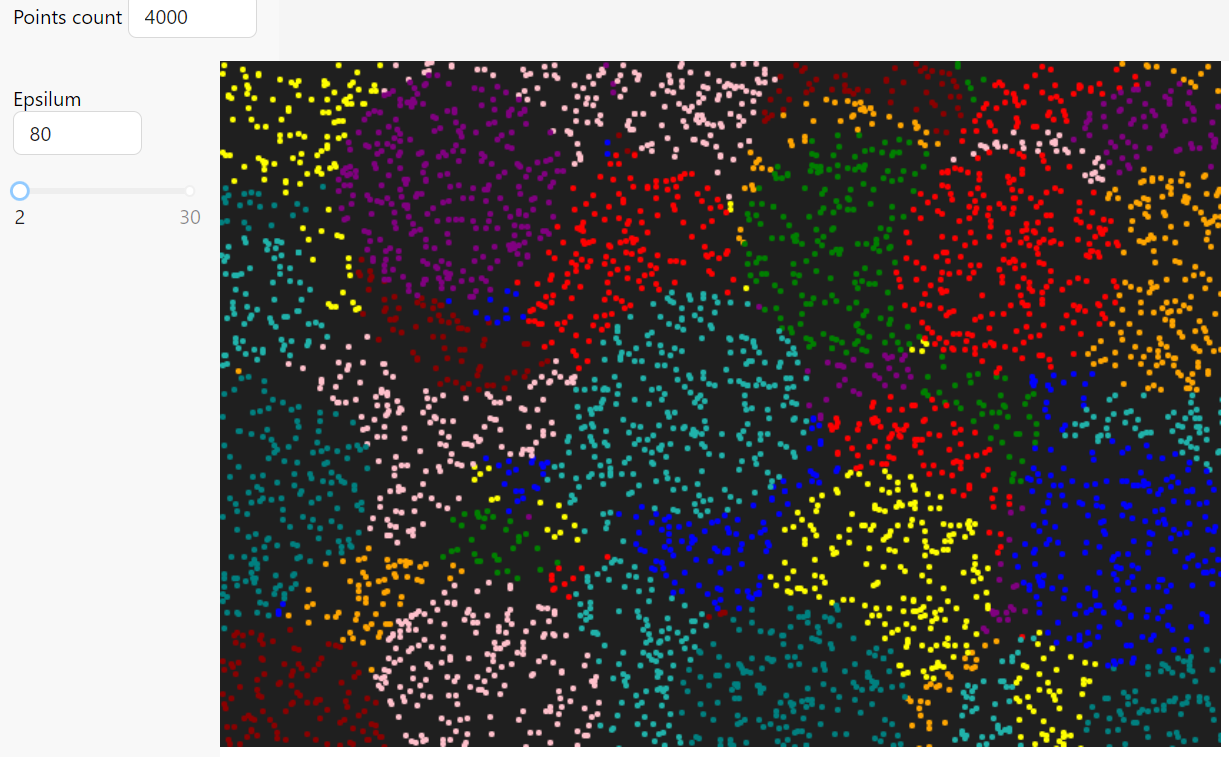
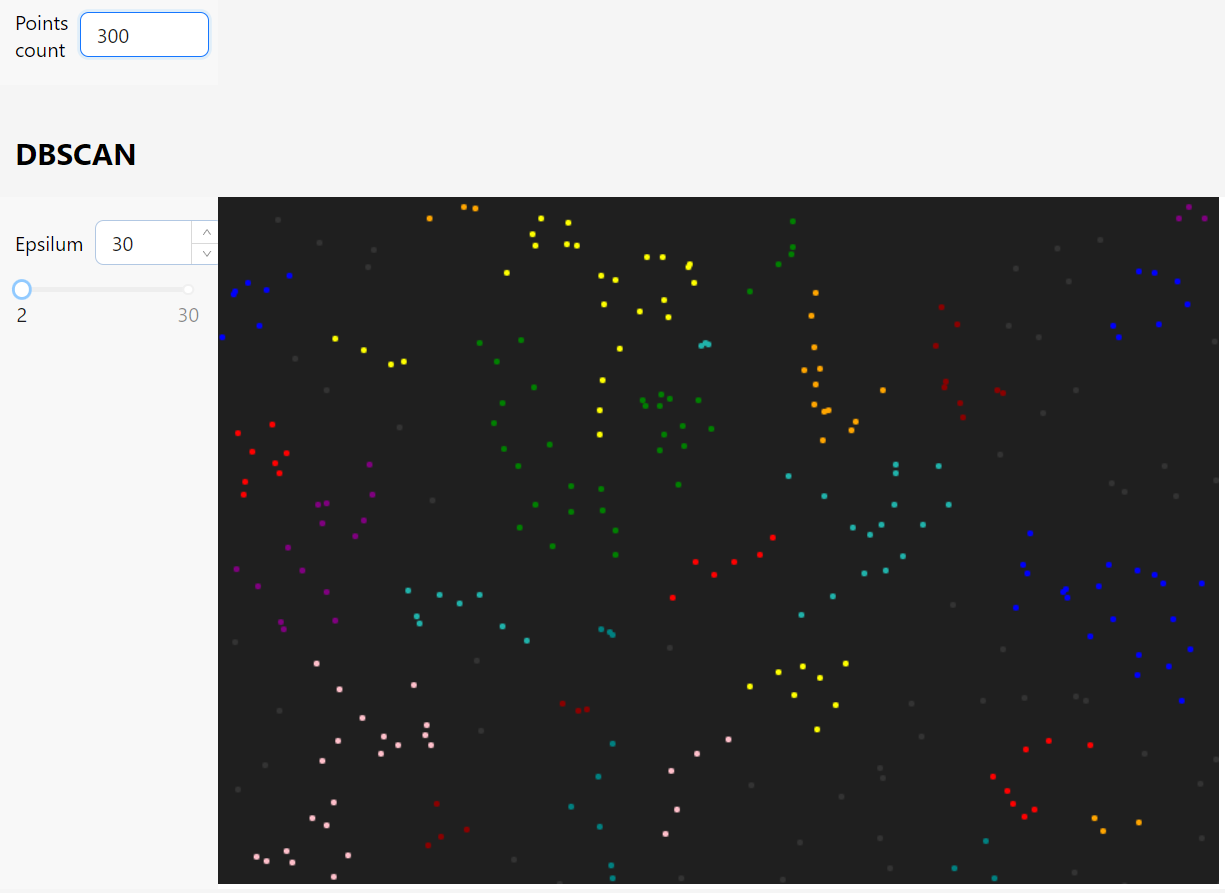
dbscan fix

diff --git a/src/utils/dbscan.ts b/src/utils/dbscan.ts
@@ -10,12 +10,12 @@ export const NOISE = -2;
 
 type DBSCAN_Point = {
   point: [number, number];
-  cluster: number;
+  cluster?: number;
 };
 
-type GroupType = {
-  [key: string]: DBSCAN_Point[];
-};
+interface GroupType<T> {
+  [key: string]: T[];
+}
 
 function squareDistanse(p1: [number, number], p2: [number, number]) {
   return Math.pow(p2[0] - p1[0], 2) + Math.pow(p2[1] - p1[1], 2);
@@ -38,7 +38,7 @@ export function dbscan<T>(
 ) {
   const dataMap = new Map<DBSCAN_Point, T>();
   for (const elem of data) {
-    dataMap.set({ point: getCoords(elem), cluster: -1 }, elem);
+    dataMap.set({ point: getCoords(elem) }, elem);
   }
 
   const points = Array.from(dataMap.keys());
@@ -46,6 +46,7 @@ export function dbscan<T>(
   let c = 0; //метка кластера
   for (const point of points) {
     if (point.cluster === NOISE) continue;
+    if (point.cluster !== undefined) continue;
 
     // список всех соседей к данной точки
     const neighbors = rangeQuery(points, point, eps, getDist);
@@ -64,8 +65,13 @@ export function dbscan<T>(
     let seed_point = seed[index];
     // проверка соседей точки
     while (seed_point) {
-      if (seed_point.cluster !== undefined && seed_point.cluster !== NOISE) {
+      if (seed_point.cluster === NOISE) {
         seed_point.cluster = c;
+        index++;
+        seed_point = seed[index];
+        continue;
+      }
+      if (seed_point.cluster !== undefined) {
         index++;
         seed_point = seed[index];
         continue;
@@ -85,35 +91,18 @@ export function dbscan<T>(
     }
   }
 
-  const groups: GroupType = {};
+  const groups: GroupType<T> = {};
   points.forEach((p) => {
+    if (!p.cluster) p.cluster = -3;
     if (!groups[p.cluster]) groups[p.cluster] = [];
-    groups[p.cluster].push(p);
+    groups[p.cluster].push(dataMap.get(p)!);
   });
 
   return groups;
-
-  // if (!groups[NOISE]) groups[NOISE] = [];
-
-  // Object.keys(groups).forEach((key) => {
-  //   if (
-  //     key !== NOISE.toString() &&
-  //     groups[key] &&
-  //     groups[key].length < min_points
-  //   ) {
-  //     groups[NOISE].push(...groups[key]);
-  //     groups[key].forEach((p) => (p.cluster = NOISE));
-  //     delete groups[key];
-  //   }
-  // });
-  // return Object.values(groups).map((group) =>
-  //   group.map((p) => dataMap.get(p)!)
-  // );
 }
 
 /**
  * поиск всех соседей точки, которые удовлетворяют условиям плотности
- * @returns {Array}
  */
 function rangeQuery(
   points: DBSCAN_Point[],

diff --git a/src/components/DBSCAN/DBSCAN.tsx b/src/components/DBSCAN/DBSCAN.tsx
@@ -3,7 +3,7 @@ import { Col, InputNumber, Row, Slider, SliderSingleProps, Space } from 'antd';
 
 import { Canvas, CanvasPointType } from '../Canvas/Canvas';
 import { colors } from '../../constants/colors';
-import { NOISE, dbscan } from '../../utils/dbscan';
+import { dbscan } from '../../utils/dbscan';
 import { PointType } from 'types/PointType';
 
 import './DBSCAN.css';
@@ -30,16 +30,17 @@ export const DBSCAN: FC<DBSCANPropsType> = ({ points }) => {
   useEffect(() => {
     const result = dbscan(points, eps, density, (el) => el);
 
-    const gr: CanvasPointType[][] = Object.keys(result).map((key) =>
-      result[key].map((p): CanvasPointType => {
-        const color =
-          p.cluster === NOISE ? '#333' : colors[p.cluster % colors.length];
+    const gr: CanvasPointType[][] = Object.keys(result).map((key) => {
+      const cluster = +key;
+      return result[key].map((p): CanvasPointType => {
+        const color = cluster < 0 ? '#333' : colors[cluster % colors.length];
         return {
-          coords: p.point,
+          coords: p,
           color,
         };
-      })
-    );
+      });
+    });
+
     setGroups(gr);
   }, [points, eps, density]);
 
